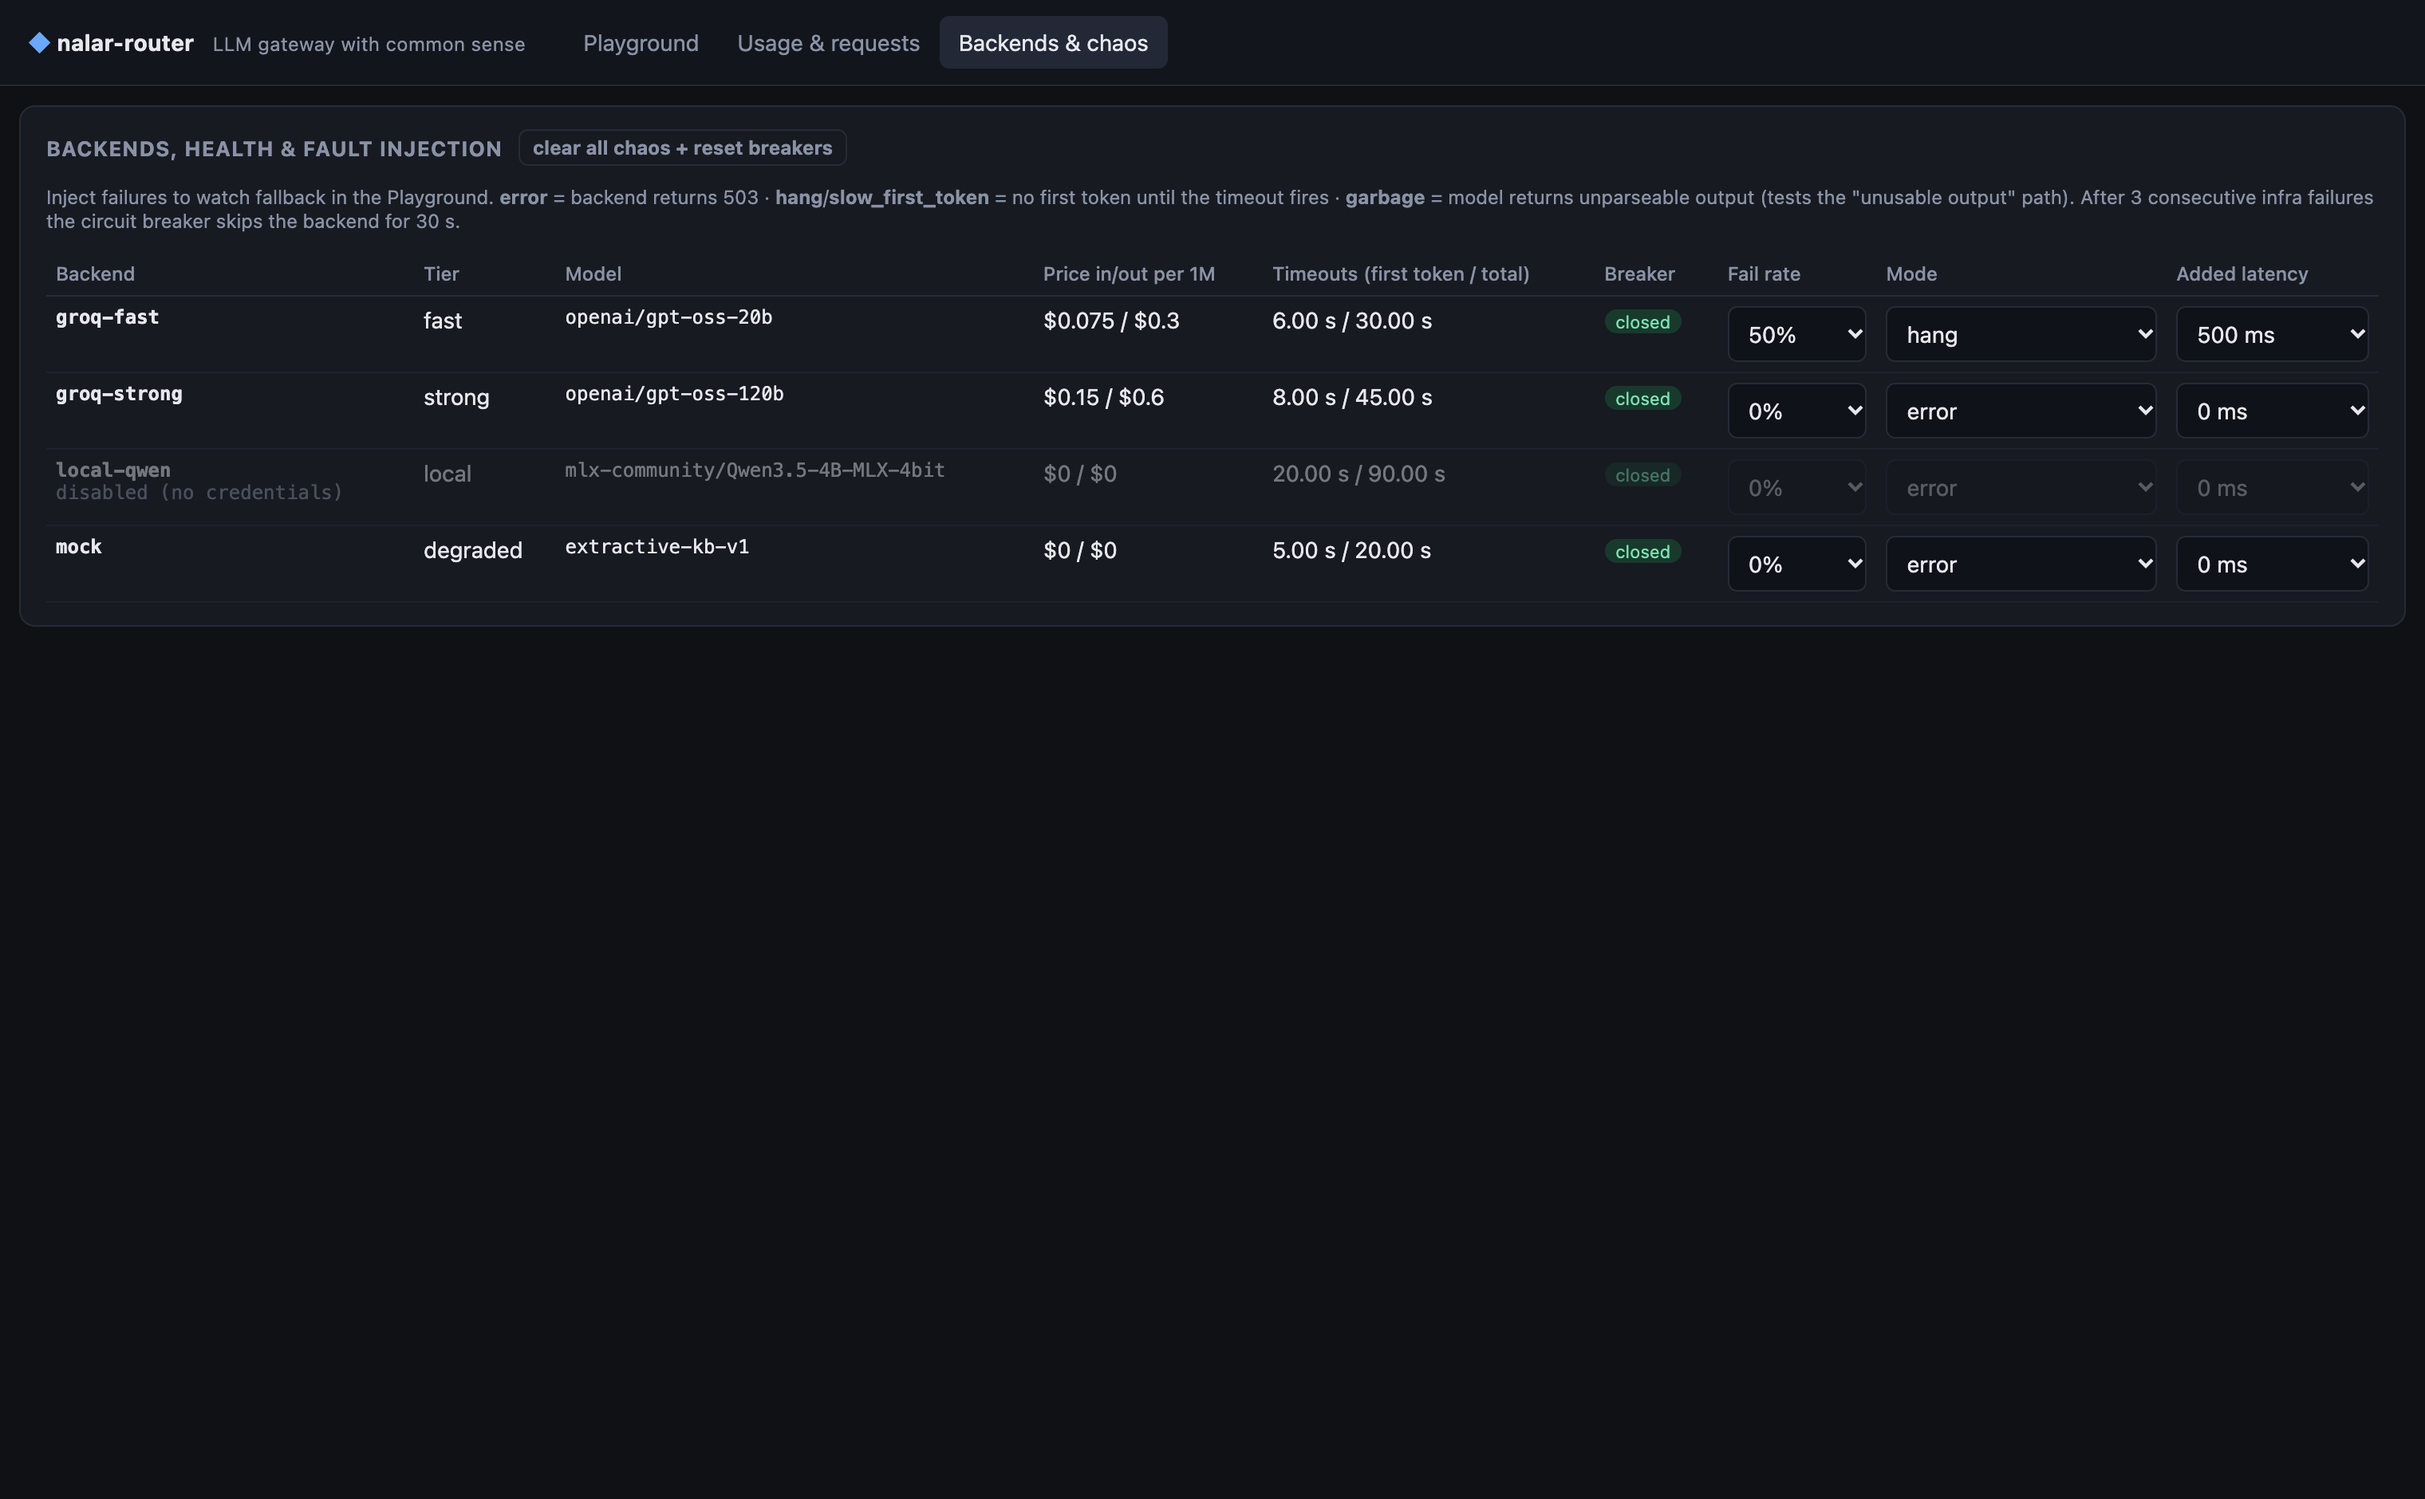
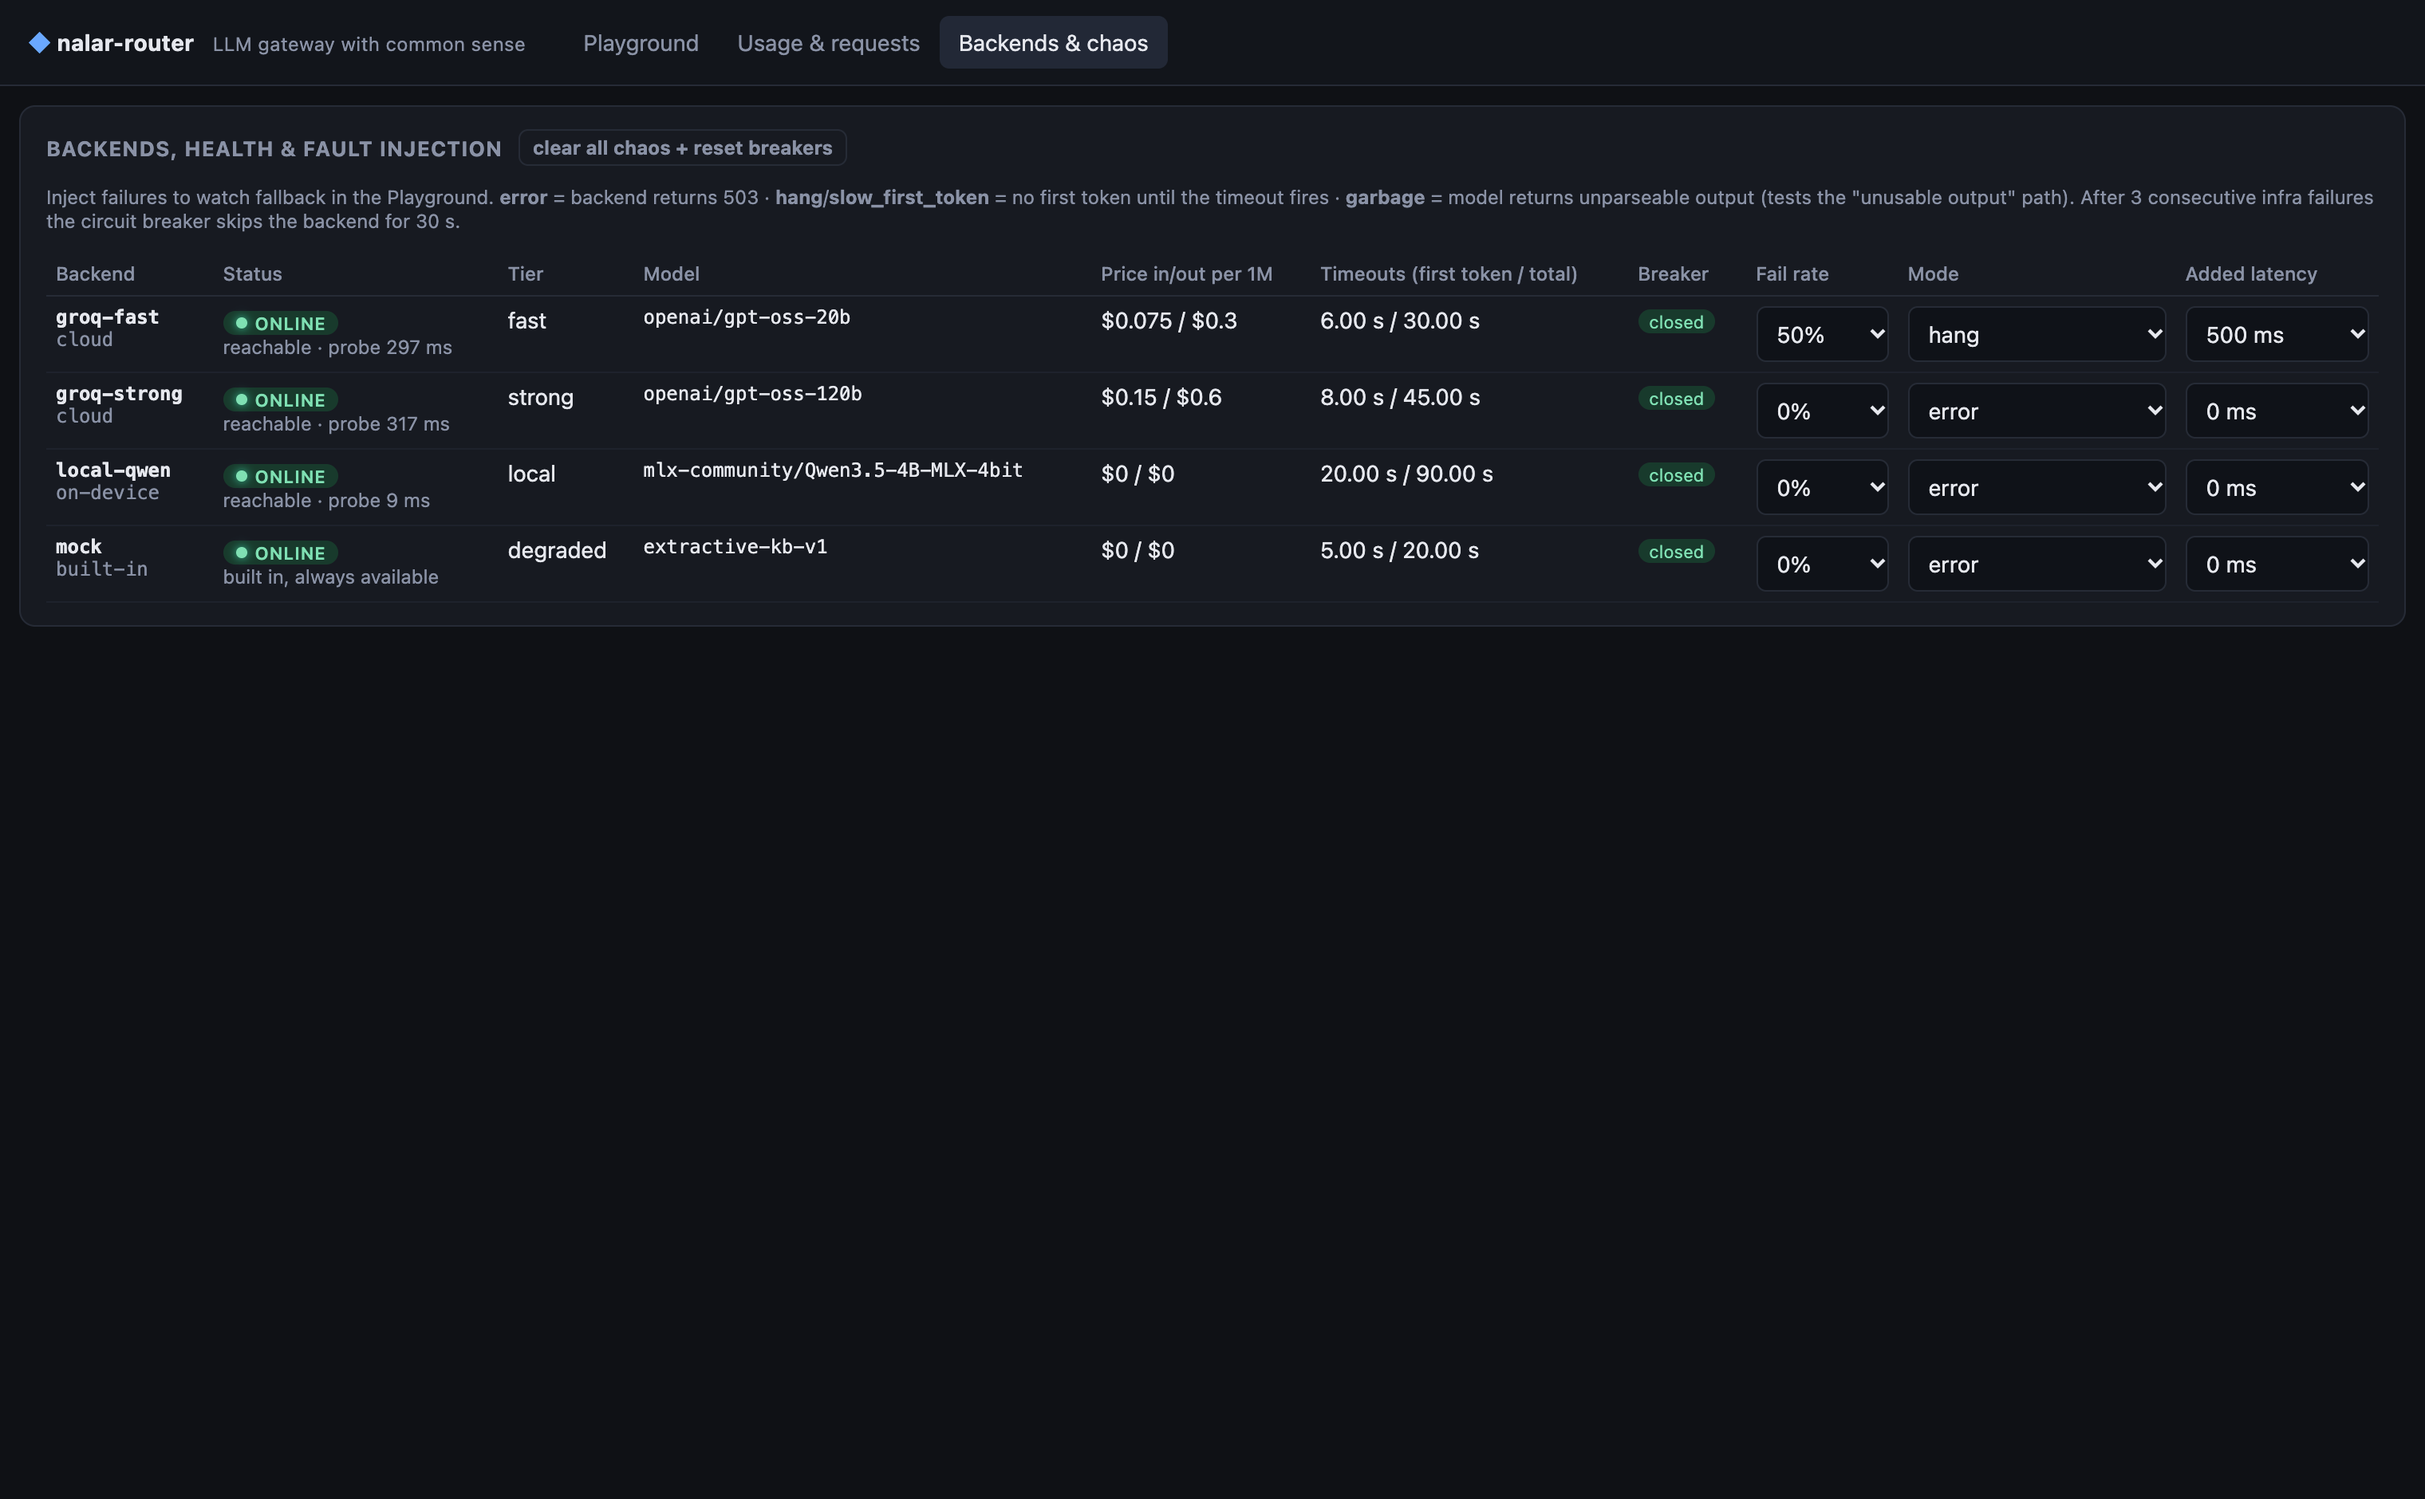
docs: document reasoning, trace and backend status; refresh screenshots
Updates README, API reference, report and CLAUDE.md (adds the commit
convention and the reasoning invariant).

diff --git a/README.md b/README.md
@@ -8,7 +8,7 @@
 
 <p align="center">
   <a href="https://github.com/fauziridwan1709/nalar-router/actions/workflows/ci.yml"><img alt="CI" src="https://github.com/fauziridwan1709/nalar-router/actions/workflows/ci.yml/badge.svg"></a>
-  <img alt="Tests" src="https://img.shields.io/badge/tests-29%20passing-3fb984">
+  <img alt="Tests" src="https://img.shields.io/badge/tests-31%20passing-3fb984">
   <img alt="Intent accuracy" src="https://img.shields.io/badge/intent%20accuracy-100%25%20(30%20held--out)-3fb984">
   <img alt="Hard-case probe" src="https://img.shields.io/badge/hard--case%20probe-8%2F8-3fb984">
   <img alt="Out-of-domain refusals" src="https://img.shields.io/badge/out--of--domain%20refused-5%2F5-3fb984">
@@ -76,6 +76,9 @@
 ### Console
 
 - **Playground:** live streaming plus an inspector panel showing the routing decision, the fallback trail, intent and confidence, retrieved entries, tokens, latency and cost.
+- **Model reasoning:** an optional *thinking* panel streams the model's reasoning (gpt-oss on Groq, Qwen thinking on MLX), kept separate from the answer and labelled per attempt.
+- **Step trace:** a timeline of every step with server-side timings: auth and quota, routing, retrieval, scope gate, each attempt, header validation, the commit point, and done.
+- **Online/offline labels** on every backend, from live health probes plus the circuit breaker. On the cloud deployment the local model is listed as *offline: runs on a local machine*.
 - **Usage:** requests, tokens, cost and remaining quota per tenant, with a drill-down into each request.
 - **Backends:** health, circuit breaker state, and fault-injection controls.
 
@@ -253,6 +256,7 @@ All settings are environment variables, read from `.env` at the repo root (or fr
 | `SUPPORT_REFUSE_BELOW` | `0.5` | Confidence below which the assistant hands off instead of answering |
 | `SUPPORT_PROMPT_VERSION` | `v2` | `v1` (minimal) or `v2` (grounded) |
 | `MOCK_TOKEN_DELAY_MS` | `15` | Streaming speed of the mock backend |
+| `HEALTH_INTERVAL_MS` | `30000` | How often enabled backends are probed for the online/offline label |
 | `DEMO_MODE` | `true` | Exposes the demo keys to the console via `/api/demo-config`. **Turn off outside demos.** |
 | `ADMIN_TOKEN` | `admin-demo-token` | Protects `/admin/*` |
 | `PORT` | `3000` | |
@@ -274,6 +278,7 @@ All settings are environment variables, read from `.env` at the repo root (or fr
 |---|---|---|
 | `POST /v1/support/answer` | tenant key | The support capability. SSE events: `meta` → `route` → `retrieval` → `attempt`… → `intent` → `token`… → `done` (or `refusal` / `error`). Send `"stream": false` for a single JSON response. |
 | `POST /v1/chat/completions` | tenant key | Raw gateway, OpenAI-compatible chunks plus an `x_router` block |
+| `GET /v1/backends` | tenant key | Every backend with its online/offline label, where it runs, and whether your plan may use it |
 | `GET /v1/usage` | tenant key | The calling tenant's usage and remaining quota |
 | `GET /v1/requests/:id` | tenant key | One of the tenant's own requests, with its attempts |
 | `GET /admin/usage` · `/admin/requests` · `/admin/requests/:id` | admin token | Usage per tenant; request log with routing decision and attempts |
@@ -302,7 +307,7 @@ Results are written to `tools/eval/results/<timestamp>.{md,json}`. The eval goes
 ## Testing
 
 ```bash
-npm test          # 29 vitest tests, no network (scripted fake backends)
+npm test          # 31 vitest tests, no network (scripted fake backends)
 npm run typecheck
 ```
 
@@ -312,6 +317,7 @@ The tests cover:
 - **Fallback:** on error, on first-token timeout and on unusable output, plus *no* fallback after commit.
 - **Circuit breaker.**
 - **Support assistant:** header parsing (code fences, `<think>` blocks, percentage confidence), refusals, and routing rules.
+- **Reasoning and status:** reasoning is streamed separately from the answer and only when asked for, and offline backends are labelled.
 
 CI runs typecheck, tests, build and the retrieval eval on every push.
 

diff --git a/docs/API.md b/docs/API.md
@@ -10,7 +10,12 @@ curl -N http://localhost:3000/v1/support/answer \
   -d '{"message":"how do I cancel order 123?"}'
 ```
 
-Body: `message` (1–2000 chars), `model` (`auto` | tier | backend id, optional), `prompt_version` (`v1` | `v2`), `stream` (default `true`).
+Body:
+- `message`: 1–2000 chars
+- `model`: optional; `auto`, a tier, or a backend id
+- `prompt_version`: `v1` or `v2`
+- `stream`: defaults to `true`
+- `include_reasoning`: defaults to `false`. When `true`, the model's thinking is streamed as `reasoning` events. On Groq gpt-oss this costs nothing extra, since the model reasons anyway. On the local Qwen model it turns thinking on, which is much slower.
 
 The response is a stream of Server-Sent Events, in this order:
 
@@ -21,12 +26,16 @@ The response is a stream of Server-Sent Events, in this order:
 | `retrieval` | `coverage`, intent `votes`, top `entries` (id, intent, score, question, answer) |
 | `attempt` | one per backend try: `started`, then `ok` / `error` / `timeout_first_token` / `timeout_total` / `unusable_output` / `skipped_circuit_open` / `refused`, with latency, tokens and cost |
 | `intent` | `intent`, `confidence` (0–1), `label`, `components`, `agreesWithRetrieval`. Sent right before the first token. |
+| `step` | intermediate decisions: `scope_gate` (passed or refused, with the reason) and `header_validated` (the model's intent and self-reported confidence) |
+| `reasoning` | `{seq, backend, text}`: model thinking, only sent when `include_reasoning` is set. It is diagnostic only: never parsed, never part of the answer, and it can come from an attempt that is later discarded by fallback. |
 | `token` | `{text}`, the streamed answer |
 | `refusal` | `reason` (`out_of_scope` / `low_confidence`) and the message shown to the customer |
 | `error` | `code` (`all_backends_failed`, `stream_interrupted`, …), `partial` |
 | `done` | `requestId`, `outcome`, `backend`, `model`, `fallbackUsed`, `usage{prompt,completion,total,source}`, `costUsd`, `latencyMs`, `ttftMs`, `intent`, `confidence`, remaining `quota` |
 
-With `"stream": false` you get the same information as one JSON object.
+Every event except `token` and `reasoning` includes `t`, the milliseconds since the gateway received the request. The console uses it to draw the trace. The `meta` event also reports the quota admission: `maxCompletionTokens` and the tokens and requests remaining.
+
+With `"stream": false` you get the same information as one JSON object, including `steps` and, if requested, `reasoning`.
 
 ## `POST /v1/chat/completions` (raw gateway, OpenAI-compatible)
 
@@ -36,6 +45,24 @@ curl -N http://localhost:3000/v1/chat/completions -H 'authorization: Bearer sk-a
 ```
 
 It streams standard `chat.completion.chunk`s. The final chunk carries `usage` and an `x_router` block with backend, fallback, cost and trace.
+
+## `GET /v1/backends`
+
+This lists every backend, including ones not configured on this host. For each it returns the online/offline label, where the model runs, and whether the caller's plan may use it.
+
+```json
+[{ "id": "local-qwen", "tier": "local", "location": "local", "allowedForTenant": true,
+   "health": { "label": "offline", "availability": "disabled",
+               "reason": "runs on a local machine; not configured on this deployment" },
+   "breaker": "closed" }]
+```
+
+`availability` is one of:
+- `online` or `offline`: the result of probing `GET {baseUrl}/models` every 30 s
+- `disabled`: the backend isn't configured on this host
+- `unknown`: not probed yet
+
+The probe only feeds the label. Routing relies on the circuit breaker and fallback.
 
 ## Other endpoints
 

diff --git a/docs/REPORT.md b/docs/REPORT.md
@@ -27,6 +27,14 @@ A tenant calls `POST /v1/support/answer` with an API key. The gateway authentica
 
 The `requests` table is the single source of truth for both metering and quota. There is no separate counter that could drift.
 
+**Observability beyond the answer.**
+
+- **Step trace.** Every SSE event except tokens carries `t`, the server-side milliseconds since the request arrived. The console draws them as a trace: quota admitted, routed, retrieved, scope gate, each attempt, header validated, committed, done.
+- **Reasoning.** A caller can set `include_reasoning` to receive the model's reasoning as separate `reasoning` events. It is never parsed and never part of the answer, and it can come from an attempt that fallback later discards.
+  - On Groq the setting is free: gpt-oss reasons at `reasoning_effort: low` either way, and those tokens are billed either way, so we only choose whether to *receive* them.
+  - On the local Qwen model the setting turns thinking on. Measured on this laptop, that changed one request from about 4 s to about 46 s and added about 1,200 completion tokens. That's why it's off by default in the API, and the console warns about it.
+- **Online/offline labels.** Each backend is labelled online or offline from a 30 s probe (`GET {baseUrl}/models`) combined with the circuit breaker. Backends that aren't configured on a host are still listed, as offline with a reason. On the cloud deployment the local model shows as *offline: runs on a local machine*. The probe only feeds the label; routing still relies on the breaker and fallback.
+
 ## 3. Routing
 
 **Backends.** I chose these for the constraints given: no keys are provided, and at least one real model must serve requests.
@@ -138,7 +146,7 @@ Multi-intent ("charged twice … payment methods … refund?"), vague ("it doesn
 
 **Token accounting.** Each row records `usage_source`: `provider` (from the provider's usage report), `estimated` (mock backend, aborted streams), or `none` (the provider rejected the call). I checked the chars/4 estimator against provider counts on the 119 eval calls. It reads **6–17% high** (mean 1.06–1.17×). For quota pre-authorisation that is the safe direction. It means estimated rows overstate cost a little, and they are labelled as estimates.
 
-**Tests.** There are 29 vitest tests on scripted fake backends, with no network. They cover:
+**Tests.** There are 31 vitest tests on scripted fake backends, with no network. They cover:
 - the parser
 - retrieval
 - the routing rules
@@ -149,6 +157,7 @@ Multi-intent ("charged twice … payment methods … refund?"), vague ("it doesn
 - auth, validation, the 403 plan check
 - refusals
 - the OpenAI-compatible stream format
+- reasoning streamed separately and only when asked for, and offline backends labelled
 
 ## 6. Trade-offs I accepted
 

diff --git a/CLAUDE.md b/CLAUDE.md
@@ -41,6 +41,7 @@ Local model: `~/.venvs/mlx/bin/mlx_lm.server --model mlx-community/Qwen3.5-4B-ML
 - **Quota fails closed.** Any exception in `admit()` becomes 503 `quota_unavailable` and no model is called. Usage is always derived from the `requests` table. Do not add a separate counter.
 - **There is one commit point per attempt.** Fallback is allowed only before `ctx.commit()` (the first byte sent to the client). After commit, errors end the request. Never splice output from two models together.
 - **The support header is validated before streaming.** The intent must be in the label set (or `unknown`). Header and empty-answer failures raise `BackendError("unusable_output")`, which moves on to the next backend.
+- **Reasoning is diagnostic only.** `{type:"reasoning"}` chunks are forwarded as `reasoning` events. They are never parsed, never count as the commit point, and never become part of the answer. They do count as liveness for the first-token timer, and their tokens are metered.
 - **Refusals are `StopRequest`, not errors.** They don't trip the circuit breaker and they don't fall back.
 - **Every attempt is metered,** including failed ones. `usage_source` is `provider` only when the provider actually reported usage. Otherwise it is `estimated`, or `none` when the provider rejected the call outright.
 - **Routing reasons are data.** If you add a rule, give it a `rule` id and a human-readable `reason` in `planRoute`, and add a test.
@@ -48,6 +49,7 @@ Local model: `~/.venvs/mlx/bin/mlx_lm.server --model mlx-community/Qwen3.5-4B-ML
 
 ## Conventions
 
+- Commits use Conventional Commits with the part touched as the scope: `feat(gateway): …`, `fix(console): …`, `docs(readme): …`, `test(gateway): …`, `chore(eval): …`, `ci: …`. Split commits by part.
 - ESM everywhere. The gateway uses `.js` suffixes in relative imports (NodeNext).
 - Errors use `GatewayError(status, code, message, details)` and come out as `{error:{code,message,details}}`.
 - New backends implement `Backend.stream()` and yield `{type:"text"}` and `{type:"usage"}` chunks. They must honour `req.signal`.
